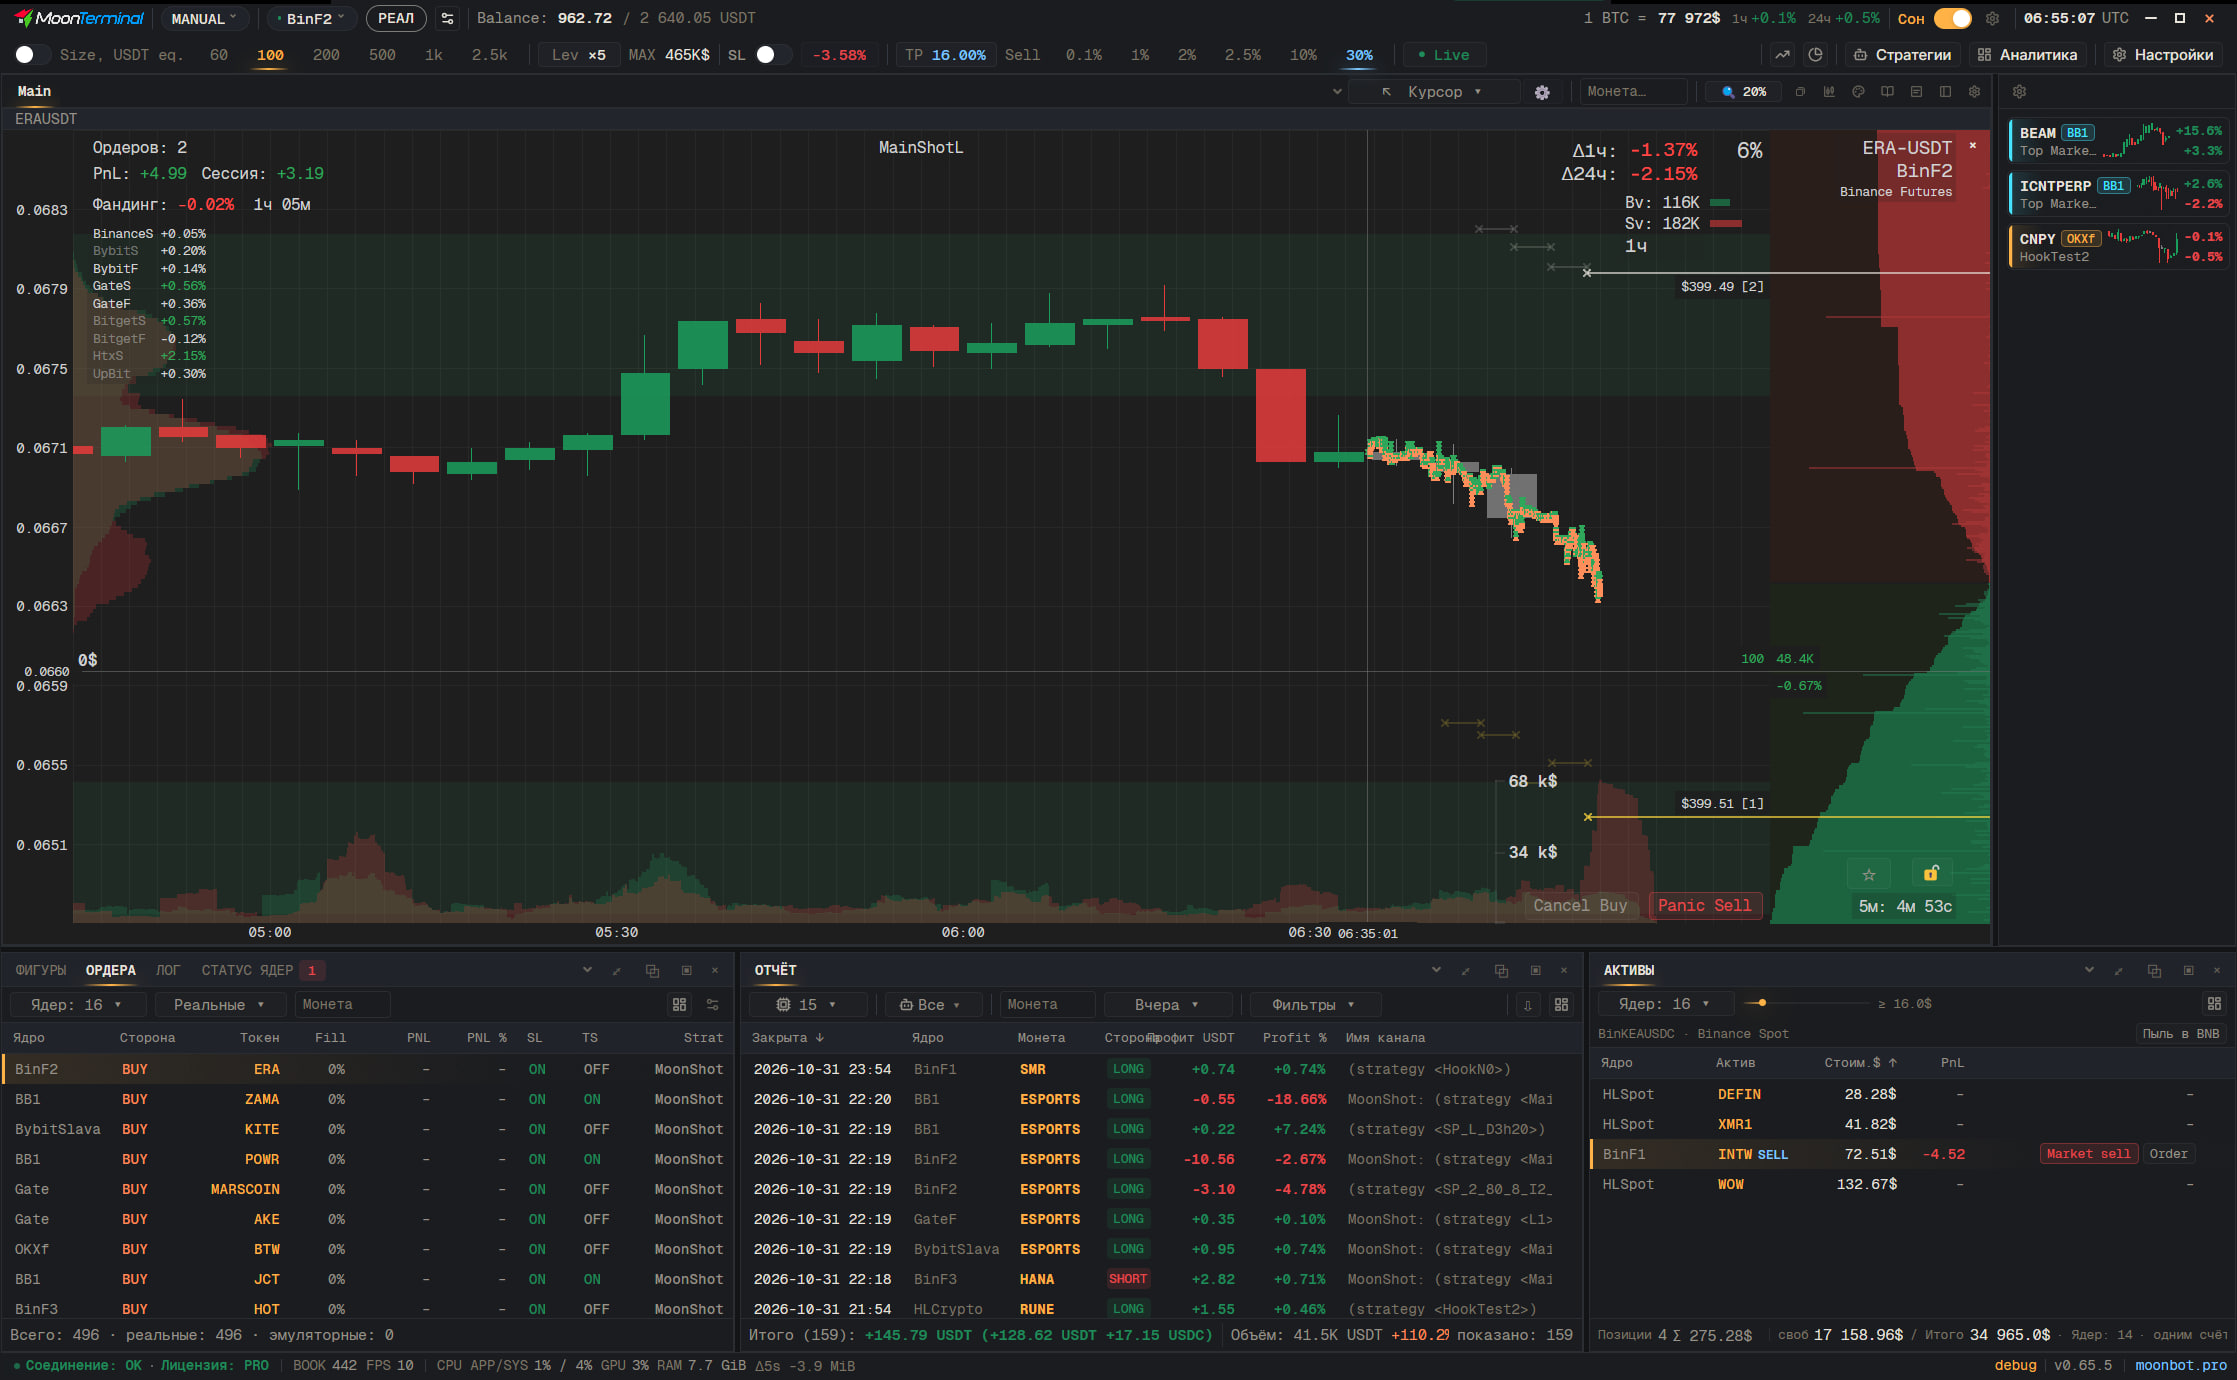
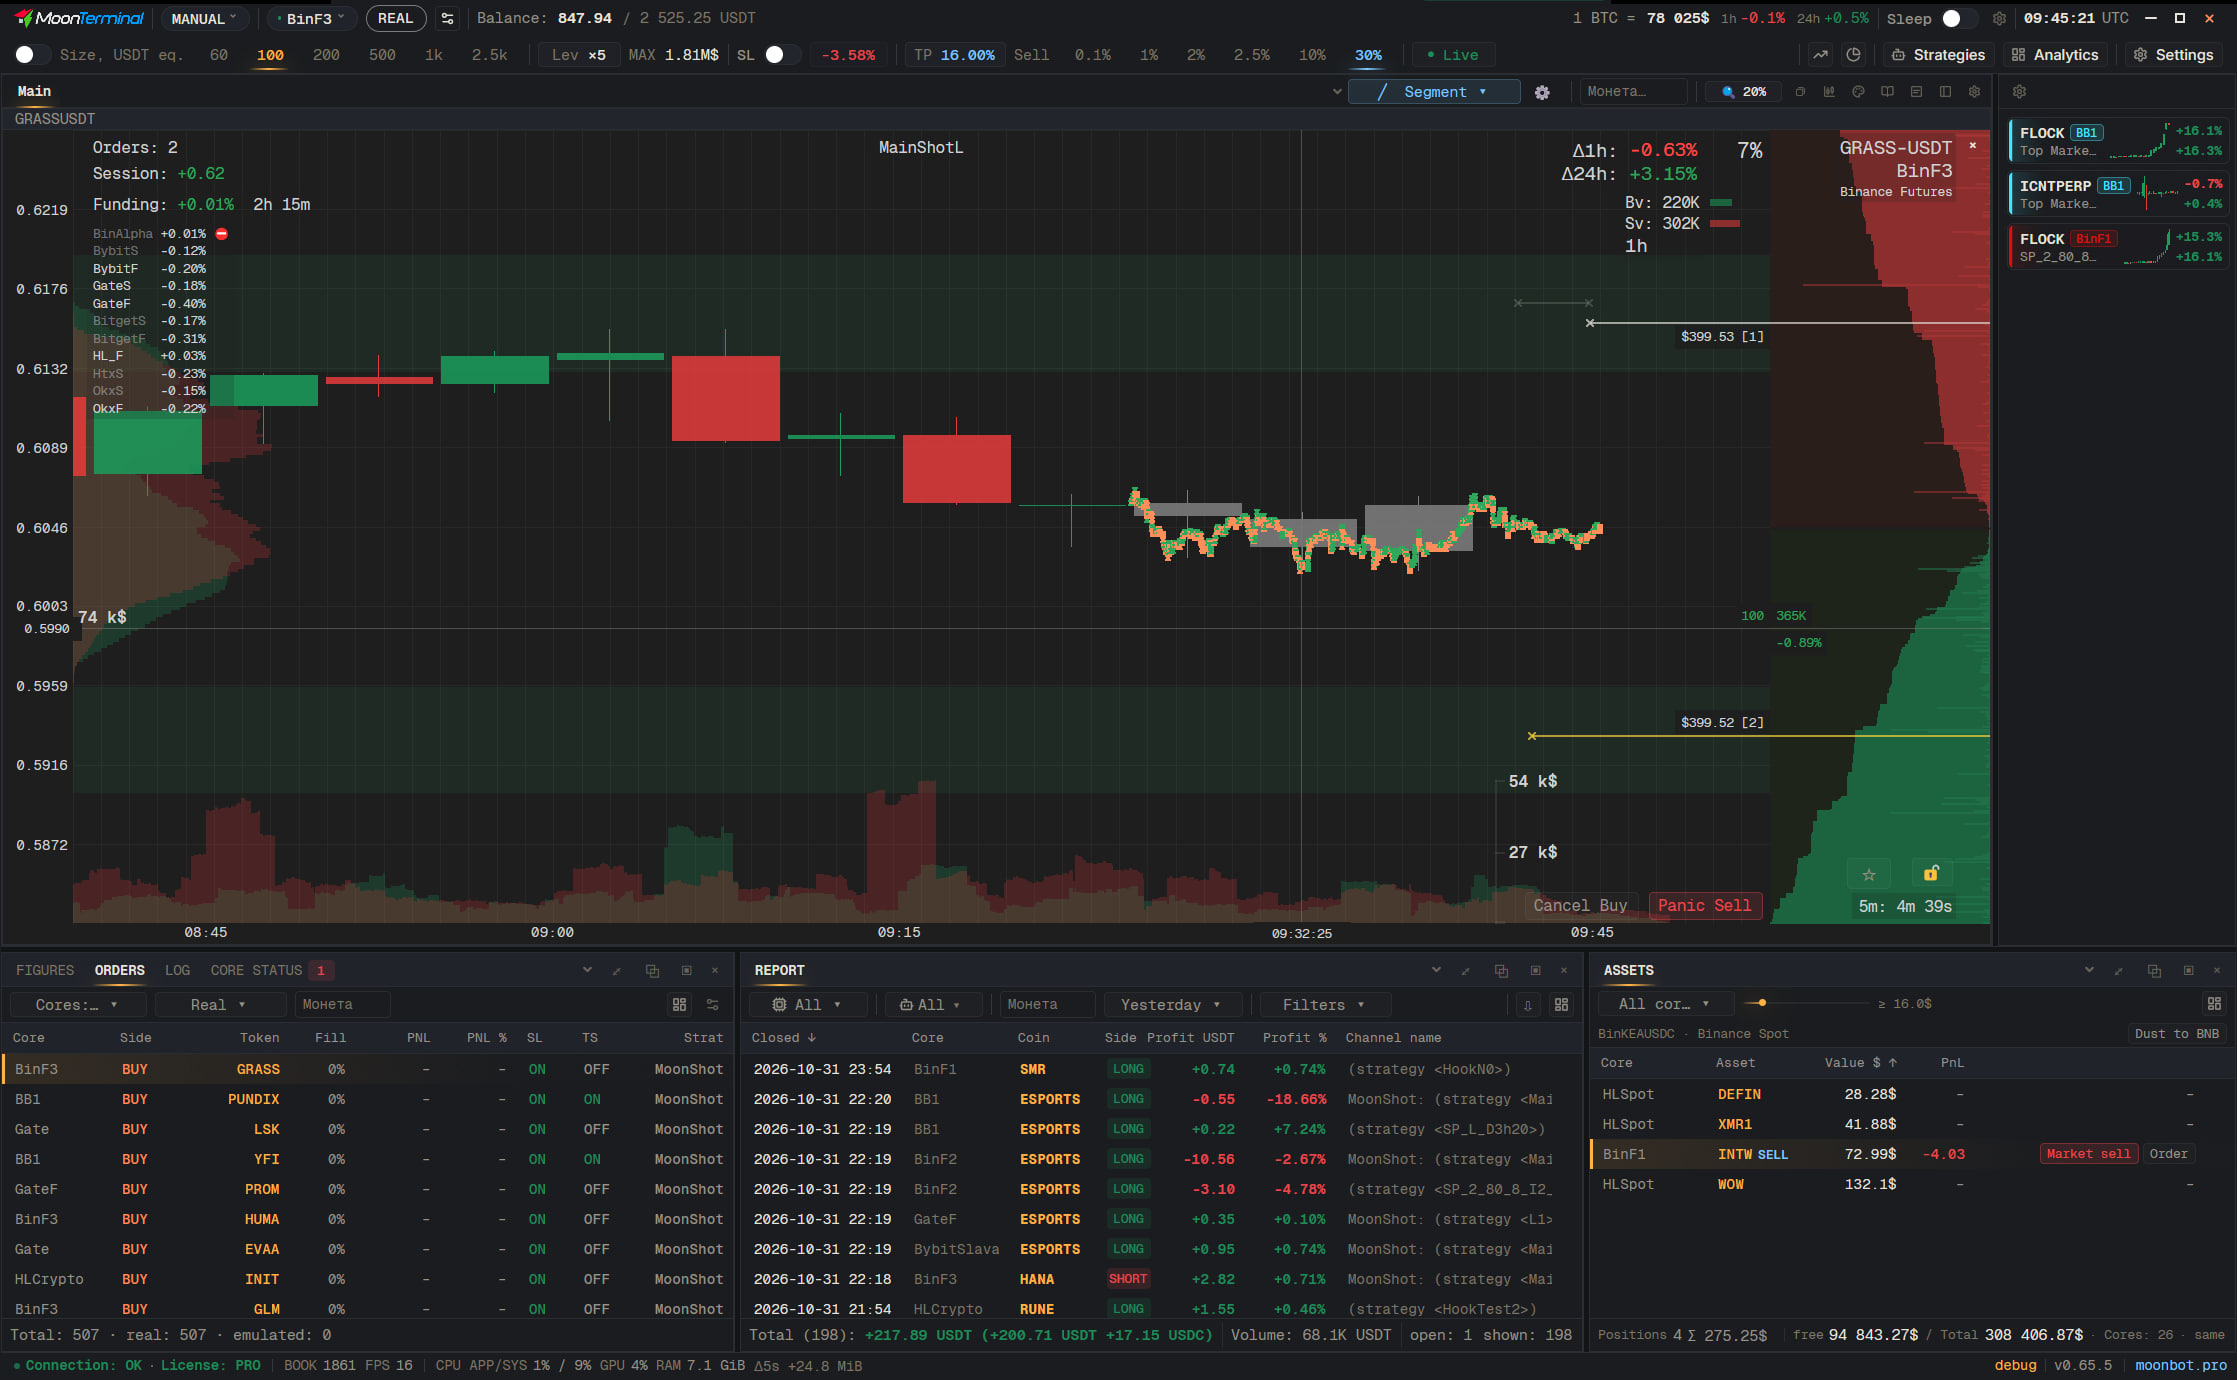
docs(readme): show a localized screenshot in each README (#1205)

diff --git a/README.ru.md b/README.ru.md
@@ -40,7 +40,7 @@ MoonTerminal — нативный десктопный торговый терм
 > **В разработке.** Это рабочее пространство активной разработки терминала: оболочка на GPUI, интеграция MoonUI, живой поток данных MoonProto, платформенный GPU-рендеринг графиков и отладочный инструментарий. Это ещё не готовый упакованный продукт.
 
 <p align="center">
-  <img src="assets/img/screenshot-main.png" alt="Главное окно MoonTerminal" width="900">
+  <img src="assets/img/screenshot-main.ru.png" alt="Главное окно MoonTerminal" width="900">
 </p>
 
 ## Возможности
